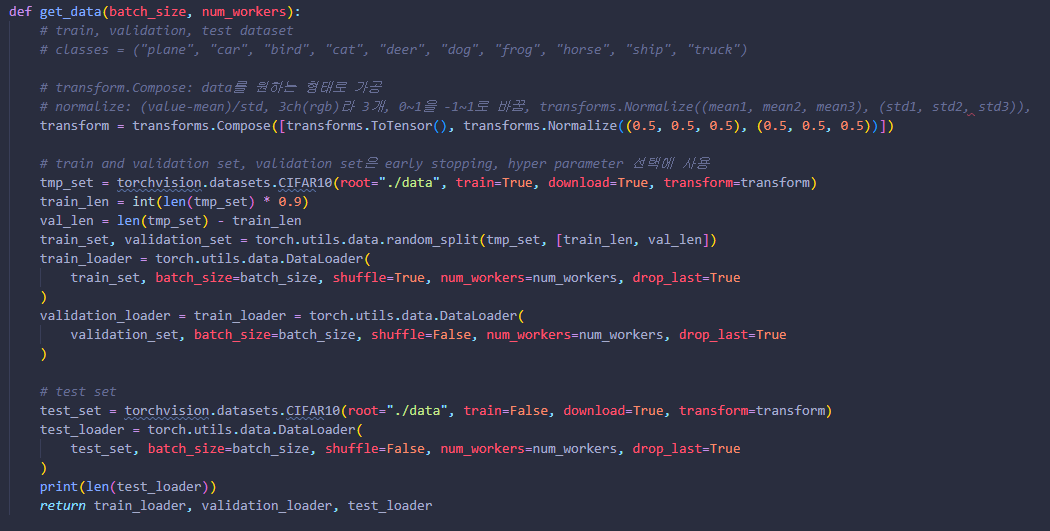
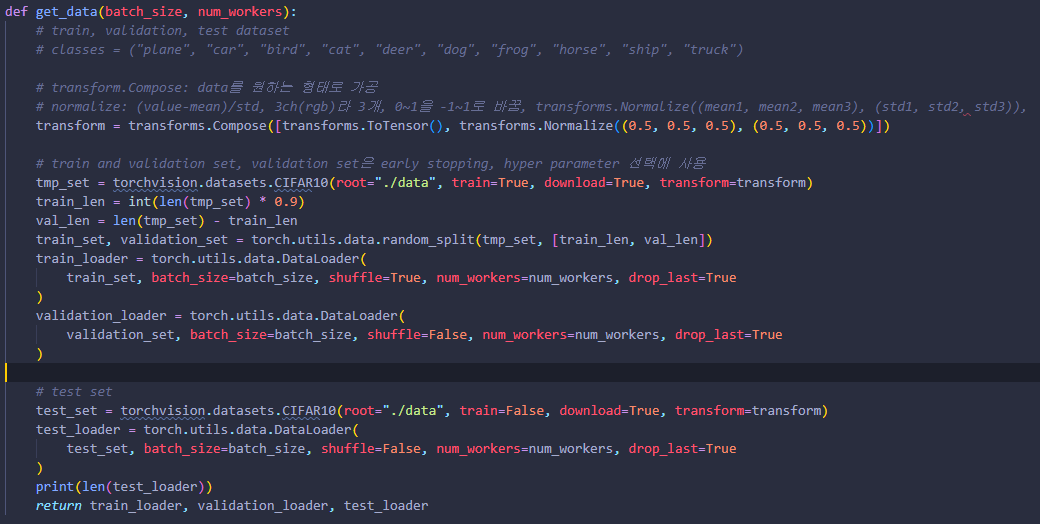
t

diff --git a/study/univ_class_AI/hw2.py b/study/univ_class_AI/hw2.py
@@ -107,16 +107,16 @@ def get_data(batch_size, num_workers):
     train_loader = torch.utils.data.DataLoader(
         train_set, batch_size=batch_size, shuffle=True, num_workers=num_workers, drop_last=True
     )
-    validation_loader = train_loader = torch.utils.data.DataLoader(
+    validation_loader = torch.utils.data.DataLoader(
         validation_set, batch_size=batch_size, shuffle=False, num_workers=num_workers, drop_last=True
     )
 
     # test set
     test_set = torchvision.datasets.CIFAR10(root="./data", train=False, download=True, transform=transform)
-    test_loader = train_loader = torch.utils.data.DataLoader(
+    test_loader = torch.utils.data.DataLoader(
         test_set, batch_size=batch_size, shuffle=False, num_workers=num_workers, drop_last=True
     )
-
+    print(len(test_loader))
     return train_loader, validation_loader, test_loader
 
 
@@ -138,8 +138,8 @@ def main():
     # run
     print(model_name)
     train_loader, validation_loader, test_loader = get_data(batch_size, num_workers)  # model 불러오기
-    train_model(device, train_loader, validation_loader, learning_rate, training_epochs, model_name)  # model train
-    run_model(device, test_loader, model_name)  # test data로 실행
+    # train_model(device, train_loader, validation_loader, learning_rate, training_epochs, model_name)  # model train
+    run_model(device, train_loader, model_name)  # test data로 실행
 
 
 if __name__ == "__main__":
